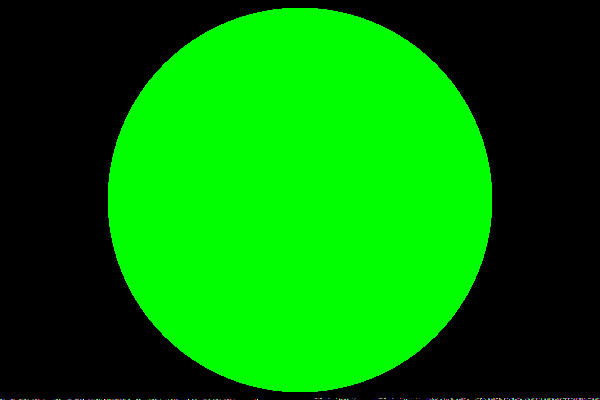
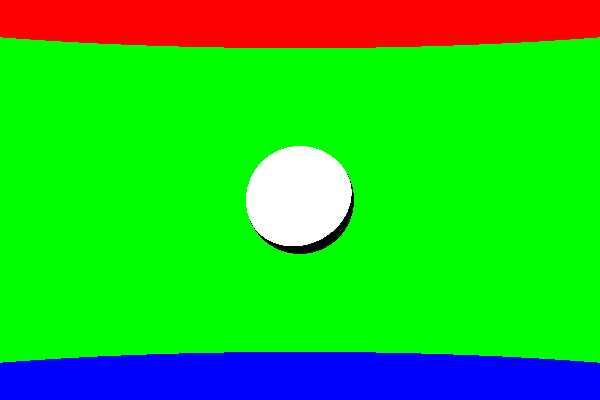
Zeg ne kjir oe loat'est

diff --git a/ry.cpp b/ry.cpp
@@ -34,6 +34,11 @@ Vector operator*(const Vector& a, double t) { //I want it to go both ways becaus
 	return Vector(a.x*t, a.y*t, a.z*t);
 }
 
+std::ostream& operator<<(std::ostream& os, const Vector& V){
+	os<<"("<<V.x<<", "<<V.y<<", "<<V.z<<")";
+	return os;
+}
+
 double dot(const Vector& a, const Vector& b) {
 	return double (a.x*b.x + a.y*b.y + a.z*b.z);
 }
@@ -48,7 +53,7 @@ struct Sphere{
 	double R;
 	Sphere(){}
 	Sphere(const Vector& c, const Vector& albedo, double R):
-		C(c),albedo(albedo), R(R)
+		C(c), albedo(albedo), R(R)
 	{}
 };
 
@@ -80,7 +85,7 @@ struct Lightsource{
 	Lightsource(const Vector& spot, double i, const Vector& c):
 		spot(spot), I(i), hue(c)
 	{}
-}
+};
 
 
 struct Scene{
@@ -101,7 +106,7 @@ Intersection intersect(const Sphere& sf, const Ray& ry){
 	double t;
 	Vector OmC = ry.O-sf.C;
 	double kk = dot(ry.u, OmC);
-	double delta = kk*kk-(dot(OmC, OmC)-sf.R);
+	double delta = kk*kk-(dot(OmC, OmC)-sf.R*sf.R);
 	if (delta >= 0){
 		double t1 = -kk - sqrt(delta); //dot(u, C - O) = dot(u, -OmC) = -kk
 		double t2 = -kk + sqrt(delta);
@@ -113,9 +118,15 @@ Intersection intersect(const Sphere& sf, const Ray& ry){
 			t = t1;
 		}
 		if (t1 < 0){
-			intersecB = true;
-			t = t2;
+			if(t2 >= 0){
+				intersecB = true;
+				t = t2;
+			}
+			else{
+				intersecB = false;
+			}
 		}
+
 	}else{
 		intersecB = false;
 	}
@@ -130,13 +141,14 @@ Intersection intersect(const Sphere& sf, const Ray& ry){
 
 //Intersection: point, normal, dist
 
-Intersection intersect(const Scene& sn, const Ray& ry){
+Vector intersect(const Scene& sn, const Ray& ry){
 	double curr_t = 1e16;
 	bool intersex = 0;
 	Sphere kept_ball;
-	Vector bgcolor(0, 0, 0); 
+	Vector bgcolor(0, 0, 0);
+	Vector ro = bgcolor; 
+	Vector perceived=bgcolor;
 	Intersection keep;
-
 
 	for(auto& ball: sn.welt){
 		Intersection Ic = intersect(ball, ry);
@@ -145,19 +157,39 @@ Intersection intersect(const Scene& sn, const Ray& ry){
 			curr_t = t;
 			keep = Ic;
 			kept_ball = ball;
+			//std::cout<<"kept_ball: center="<<ball.C<<" albedo="<<ball.albedo<<std::endl;
 			intersex = 1;
-			Vector surfacecolor = ball.albedo;
+			ro = ball.albedo;
+			//std::cout<<ball.albedo<<std::endl;
+		}
 	}
 	if(intersex){
+		//Vector perceived(0, 0, 0);
 		for(auto& ly: sn.lights){
-			pairwiseyoink(surfacecolor, )
+			double d = norm(ly.spot - keep.point);
+			double dotprod_kanker = dot(keep.normal, (ly.spot - keep.point)*(1/d));
+			double chungus1 = ly.I/(4*pi*d*d);
+			Vector chungus2 = ro*(1/pi);
+			//std::cout<<"dotprod= "<<dotprod_kanker<<"chungus1= "<<chungus1<<"chungus2= "<<chungus2<<std::endl;
+			perceived += ly.I/(4*pi*d*d) * ro*(1/pi) * dotprod_kanker; //deze variable heest kanker dus het kanker is
 		}
+		//std::cout<<" perceived color: "<<perceived<<std::endl;
+		return perceived;
+		//return Vector(255, 255, 255);
 	}else{
 		return bgcolor;
 	}
 }
 
-
+int clamp(double c){
+	if(c<0){
+		return 0;
+	}
+	if(c>255){
+		return 255;
+	}
+	return c;
+}
 
 int main(){
 	double fov = pi*60/180;
@@ -166,8 +198,10 @@ int main(){
 	zouglou.welt.push_back({Vector(0, 1000, 0), Vector(0xff, 0, 0), 940});
 	zouglou.welt.push_back({Vector(0, 0,-1000), Vector(0, 0xff, 0), 940});
 	zouglou.welt.push_back({Vector(0,-1000, 0), Vector(0, 0, 0xff), 940});
-	zouglou.welt.push_back({Vector(0, 0, 0), Vector(0xff, 0xff, 0xff), 940});
+	zouglou.welt.push_back({Vector(0, 0, 1), Vector(0xff, 0xff, 0xff), 10});
+	zouglou.lights.push_back({Vector(-10, 20, 40), 2e9, Vector(0xff, 0xff, 0xff)});
 	Vector Q(0, 0, 55);
+	//std::cout<<zouglou.welt[0].C;
 	int w = 600;
 	int h = 400; 
 	uint8_t img[h][w][3]; //3 for r g b 
@@ -175,11 +209,12 @@ int main(){
 		for (int j=0; j<w; j++){
 			Vector u(j+0.5-w/2, (h-i-1)+0.5-h/2, -w/(2*fov));
 			Ray ry(normalize(u), Q);
-			Intersection Ic = intersect(zouglou, ry);
-			if (Ic.hmm){
-				img[i][j][0] = 255;
-				img[i][j][1] = 255;
-				img[i][j][2] = 255;
+			Vector seen_color = intersect(zouglou, ry);
+			if (seen_color.x or seen_color.y or seen_color.z){
+				//std::cout<<seen_color.x;
+				img[i][j][0] = clamp(seen_color.x);
+				img[i][j][1] = clamp(seen_color.y);
+				img[i][j][2] = clamp(seen_color.z);
 			}
 		}
 	}
